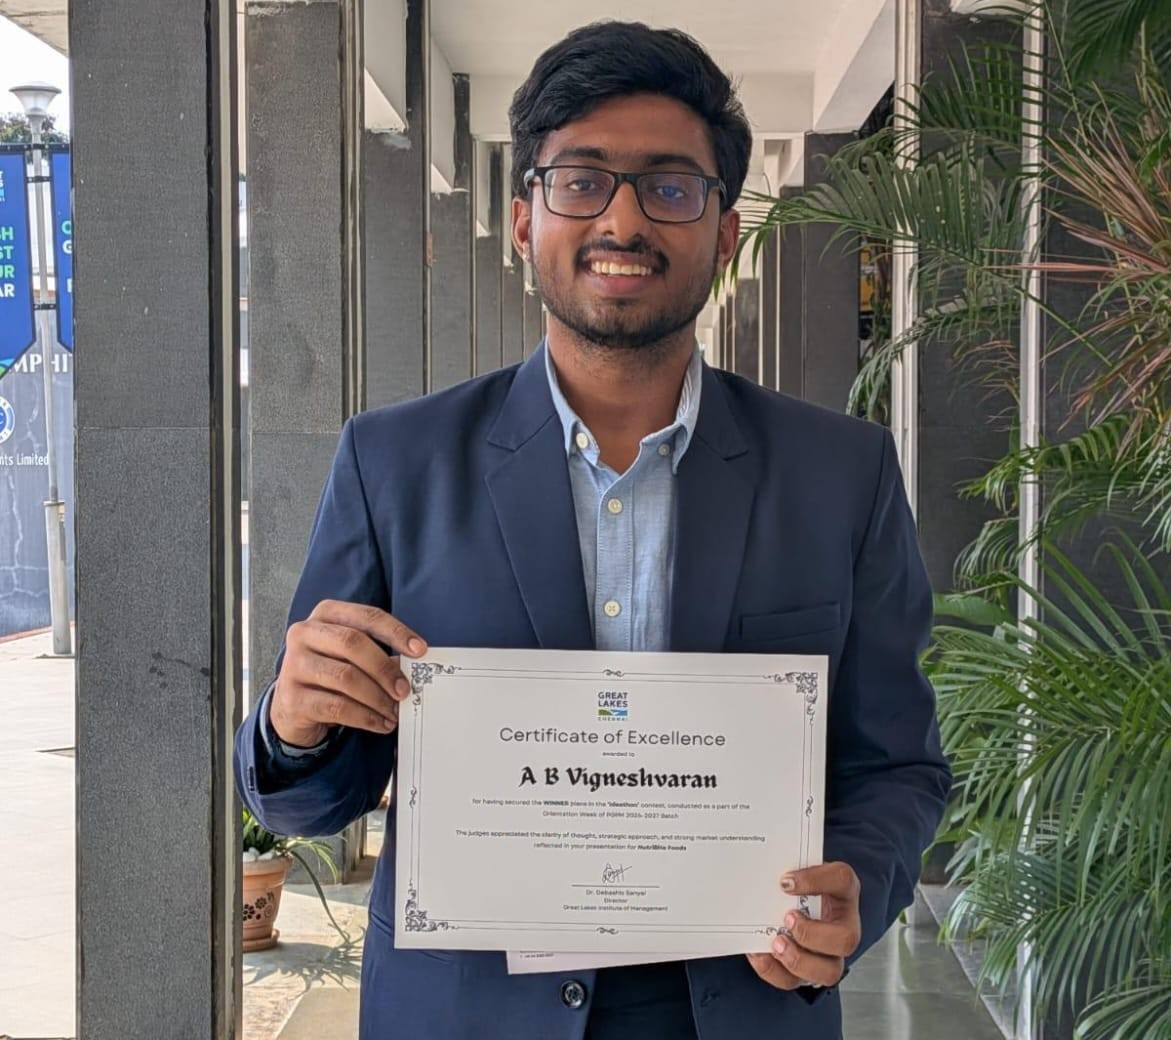
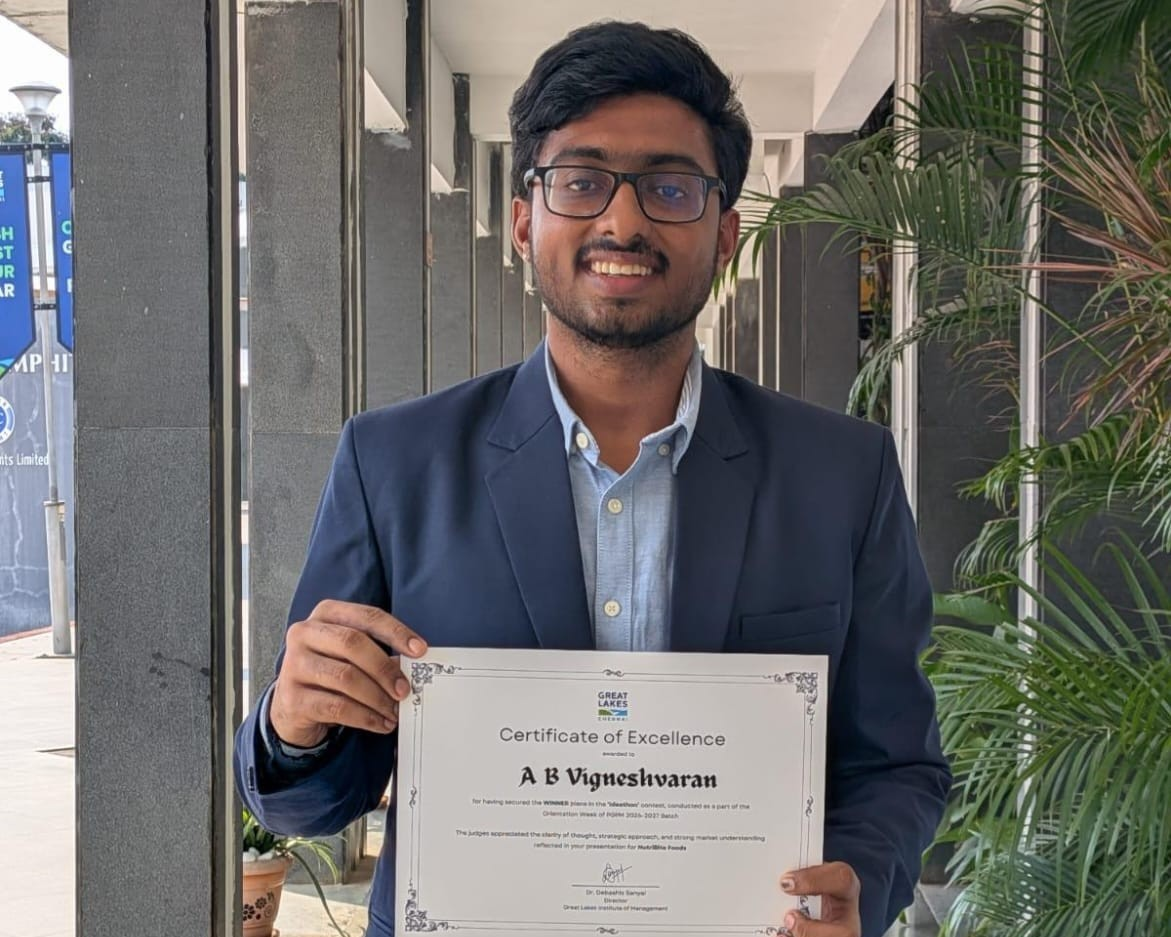
update 5
update 5

diff --git a/index.html b/index.html
@@ -484,7 +484,7 @@
           <!-- Project 3: NutriBite 2.0 Market Entry -->
           <div class="project-card glass-card">
             <div class="project-img-wrapper">
-              <img src="assets/nutribite_project.jpg" alt="NutriBite 2.0 Market Entry" class="project-card-img">
+              <img src="C:\GREAT LAKES\Github\Portfolio\assets\nutribite_project.png" alt="NutriBite 2.0 Market Entry" class="project-card-img">
               <div class="project-img-tag tag-indigo">Market Entry & GTM Strategy</div>
             </div>
             <div class="project-card-content">
